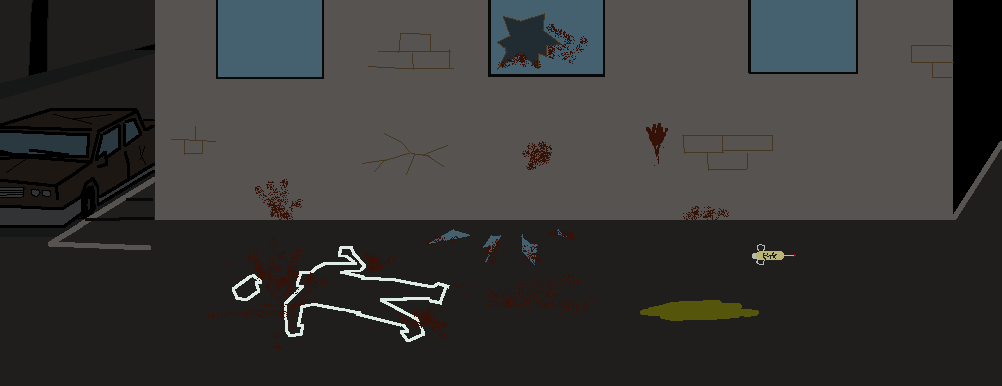
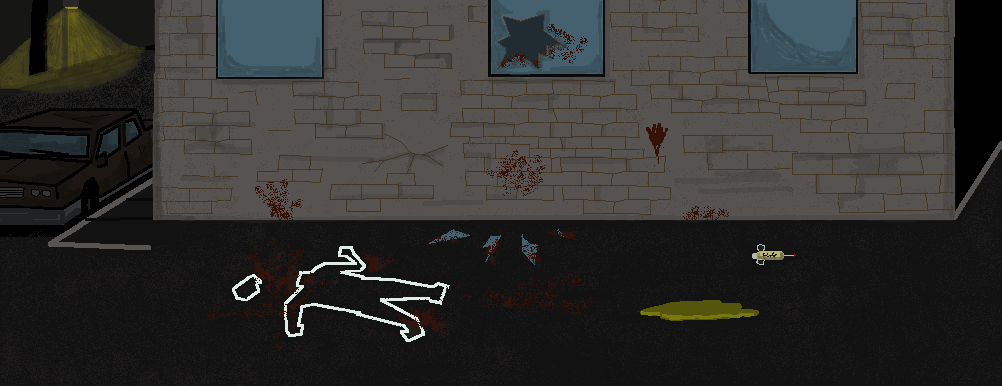
artwork greatly improved, speach boxes created to make text more readable, dried up conversation code ever so slightly

diff --git a/js/crimeScene.js b/js/crimeScene.js
@@ -3,15 +3,13 @@ var suspects = null;
 var witnesses = null;
 
 $(document).ready(function () {
-  $(".sceneOneScreen").toggle();
-  $(".menuArea").toggle();
+  $(".sceneOneScreen, .menuArea").toggle();
   // init the crime scene
   startCrimeScene = function(){
     suspects = false;
     witnesses = false;
     aboutVictim = false;
-    $(".playerPortrait").toggle();
-    $(".npcPortrait").toggle();
+    $(".playerPortrait, .npcPortrait, .playerSpeach, .npcSpeach").toggle();
   };
   startCrimeScene();
   // crime scene music control
@@ -36,23 +34,20 @@ $(document).ready(function () {
   getCloser = function(){
     $(".playerSpeach").html('I need to get closer');
     setTimeout(function() {
-      $(".playerSpeach").html("");
-      $(".playerPortrait").toggle();
+      $(".playerPortrait, .playerSpeach").toggle();
     }, 3000);
   };
   // clear speach after a few seconds
   speakClear = function() {
     var words = $(".playerSpeach").html();
     setTimeout(function() {
-      $(".playerSpeach").html("");
-      $(".playerPortrait").toggle();
+      $(".playerPortrait, .playerSpeach").toggle();
     }, words.length * 75);
   };
   npcSpeakClear = function() {
     var words = $(".npcSpeach").html();
     setTimeout(function() {
-      $(".npcSpeach").html("");
-      $(".npcPortrait").toggle();
+      $(".npcPortrait, .npcSpeach").toggle();
     }, words.length * 75);
   };
 
@@ -61,10 +56,10 @@ $(document).ready(function () {
     var action = $(".playerAction").html();
     var distance = (($(this).position().left) + ($(this).position().top)) - (($("#player").position().left) + ($("#player").position().top));
     if (distance > 35 && action === "Look at" || distance < -280 && action === "Look at") {
-      $(".playerPortrait").toggle();
+      $(".playerPortrait, .playerSpeach").toggle();
       getCloser();
     } else if (distance < 35 && action === "Look at" || distance > -280 && action === "Look at") {
-      $(".playerPortrait").toggle();
+      $(".playerPortrait, .playerSpeach").toggle();
       $(".playerSpeach").html("Looks like the last known whereabouts of our victim... a John Doe");
       speakClear();
     }
@@ -77,10 +72,10 @@ $(document).ready(function () {
     var action = $(".playerAction").html();
     var distance = (($("#shards").position().left) + ($("#shards").position().top)) - (($("#player").position().left) + ($("#player").position().top));
     if (distance > 60 && action === "Look at" || distance < -220 && action === "Look at") {
-      $(".playerPortrait").toggle();
+      $(".playerPortrait, .playerSpeach").toggle();
       getCloser();
     } else if (distance < 60 && action === "Look at" || distance > -220 && action === "Look at") {
-      $(".playerPortrait").toggle();
+      $(".playerPortrait, .playerSpeach").toggle();
       $(".playerSpeach").html("Shards of glass... There's blood everywhere.");
       speakClear();     
     }
@@ -93,15 +88,15 @@ $(document).ready(function () {
     var action = $(".playerAction").html();
     var distance = (($("#head").position().left) + ($("#head").position().top)) - (($("#player").position().left) + ($("#player").position().top));
     if (distance > 35 && action === "Look at" || distance < -260 && action === "Look at") {
-      $(".playerPortrait").toggle();
+      $(".playerPortrait, .playerSpeach").toggle();
       getCloser();
     } else if (distance < 35 && action === "Look at" && aboutVictim == false || distance > -260 && action === "Look at" && aboutVictim == false) {
       $(".playerSpeach").html("There are ways to get ahead in life, and this aint one of 'em, unless you're the murderer...Then this is Exactly how you get a head");
-      $(".playerPortrait").toggle();
+      $(".playerPortrait, .playerSpeach").toggle();
       speakClear(); 
     } else if (distance < 35 && action === "Look at" && aboutVictim == true || distance > -260 && action === "Look at" && aboutVictim == true) {
       $(".playerSpeach").html("Twisted off... who... or what could do this?");
-      $(".playerPortrait").toggle();
+      $(".playerPortrait, .playerSpeach").toggle();
       speakClear(); 
     }
   });
@@ -114,23 +109,23 @@ $(document).ready(function () {
     var distance = (($("#car").position().left) + ($("#car").position().top)) - (($("#player").position().left) + ($("#player").position().top));
     if (action === "Look at") {
       $(".playerSpeach").html("My wheels, she aint much to look at, but it beats walking");
-      $(".playerPortrait").toggle();
+      $(".playerPortrait, .playerSpeach").toggle();
       speakClear(); 
     }
   });
   $("#car").hover(function(){
     $(".helper").html("The Dick-Mobile");
   });
-
+  
   $("#brokenWindow").click(function(e) {
     var action = $(".playerAction").html();
     var distance = (($("#brokenWindow").position().left) + ($("#brokenWindow").position().top)) - (($("#player").position().left) + ($("#player").position().top));
     if (distance > -65 && action === "Look at" || distance < -400 && action === "Look at") {
-      $(".playerPortrait").toggle();
+      $(".playerPortrait, .playerSpeach").toggle();
       getCloser();
     } else if (distance < -65 && action === "Look at" || distance > -400 && action === "Look at") {
       $(".playerSpeach").html("I guess this is where these shards of glass came from. What does this have to do with the murder? Could this be a robbery gone wrong?");
-      $(".playerPortrait").toggle();
+      $(".playerPortrait, .playerSpeach").toggle();
       speakClear(); 
     }
   });
@@ -143,7 +138,7 @@ $(document).ready(function () {
     var distance = (($("#handPrint").position().left) + ($("#handPrint").position().top)) - (($("#player").position().left) + ($("#player").position().top));
     if (action === "Look at") {
       $(".playerSpeach").html("I should run this for prints back at HQ");
-      $(".playerPortrait").toggle();
+      $(".playerPortrait, .playerSpeach").toggle();
       speakClear(); 
     }
   });
@@ -155,11 +150,11 @@ $(document).ready(function () {
     var action = $(".playerAction").html();
     var distance = (($("#urine").position().left) + ($("#urine").position().top)) - (($("#player").position().left) + ($("#player").position().top));
     if (distance > 60 && action === "Look at" || distance < -220 && action === "Look at") {
-      $(".playerPortrait").toggle();
+      $(".playerPortrait, .playerSpeach").toggle();
       getCloser();
     } else if (distance < 60 && action === "Look at" || distance > -220 && action === "Look at") {
       $(".playerSpeach").html("A puddle of urine... I should scoop some up for analysis");
-      $(".playerPortrait").toggle();
+      $(".playerPortrait, .playerSpeach").toggle();
       speakClear();     
     }
   });
@@ -171,15 +166,15 @@ $(document).ready(function () {
     var action = $(".playerAction").html();
     var distance = (($("#syringe").position().left) + ($("#syringe").position().top)) - (($("#player").position().left) + ($("#player").position().top));
     if (distance > 35 && action === "Look at" || distance < -160 && action === "Look at") {
-      $(".playerPortrait").toggle();
+      $(".playerPortrait, .playerSpeach").toggle();
       getCloser();
     } else if (distance < 35 && action === "Look at" && suspects == false || distance > -160 && action === "Look at" && suspects == false) {
       $(".playerSpeach").html("Hmmm, Could this be related? Or maybe some crack head left it here? This place is pretty seedy...");
-      $(".playerPortrait").toggle();
+      $(".playerPortrait, .playerSpeach").toggle();
       speakClear(); 
     } else if (distance < 35 && action === "Look at" && suspects == true || distance > -160 && action === "Look at" && suspects == true) {
       $(".playerSpeach").html("So this belongs to the crack head after all. I don't need it.");
-      $(".playerPortrait").toggle();
+      $(".playerPortrait, .playerSpeach").toggle();
       speakClear(); 
     }
   });
@@ -191,11 +186,11 @@ $(document).ready(function () {
     var action = $(".playerAction").html();
     var distance = (($("#npcRodriguez").position().left) + ($("#npcRodriguez").position().top)) - (($("#player").position().left) + ($("#player").position().top));
     if (distance > 135 && action === "Look at" || distance < -460 && action === "Look at") {
-      $(".playerPortrait").toggle();
+      $(".playerPortrait, .playerSpeach").toggle();
       getCloser();
     } else if (distance < 135 && action === "Look at" || distance > -460 && action === "Look at") {
       $(".playerSpeach").html("Officer Rodriguez. He looks pretty shaken up. Didn't even know he smokes..");
-      $(".playerPortrait").toggle();
+      $(".playerPortrait, .playerSpeach").toggle();
       speakClear(); 
     }
   });

diff --git a/js/rodriguezConvo.js b/js/rodriguezConvo.js
@@ -1,16 +1,15 @@
 $(document).ready(function () {
-
   $(".options").toggle();
 
   $("#npcRodriguez").click(function(e) {
     var action = $(".playerAction").html();
     var distance = (($("#npcRodriguez").position().left) + ($("#npcRodriguez").position().top)) - (($("#player").position().left) + ($("#player").position().top));
     if (distance > 135 && action === "Talk to" || distance < -460 && action === "Talk to") {
-      $(".playerPortrait").toggle();
+      $(".playerPortrait, .playerSpeach").toggle();
       getCloser();
     } else if (distance < 135 && action === "Talk to" || distance > -460 && action === "Talk to") {
       $(".playerSpeach").html("Officer Rodriguez. What's the deal here?");
-      $(".playerPortrait").toggle();
+      $(".playerPortrait, .playerSpeach").toggle();
       speakClear();
       setTimeout(RodriguezTalk, 3000);
     }
@@ -20,7 +19,7 @@ $(document).ready(function () {
   }
 
   RodriguezTalk = function(){
-    $(".npcPortrait").toggle();
+    $(".npcPortrait, .npcSpeach").toggle();
     $(".npcSpeach").html("It's not great, Dick. Somebody got messed up here real good....or bad.. I'm so confused right now..");
     npcSpeakClear();
     setTimeout(toggleOptions, 6000);
@@ -30,18 +29,18 @@ $(document).ready(function () {
     $(this).css("color", "grey");
     aboutVictim = true;
     toggleOptions();
-    $(".npcPortrait").toggle();
+    $(".npcPortrait, .npcSpeach").toggle();
     $(".npcSpeach").html("Male Caucasian of unknown identity, roughly 35-40 years of age, broken knee, decapitated and 5\"11...I think.");
     npcSpeakClear();
     response = function(){
       $(".playerSpeach").html("How was he decapitated?");
-      $(".playerPortrait").toggle();
+      $(".playerPortrait, .playerSpeach").toggle();
       speakClear();
     };
     setTimeout(response, 8000);
     npcResponse = function(){
       setTimeout(function(){
-        $(".npcPortrait").toggle();
+        $(".npcPortrait, .npcSpeach").toggle();
         $(".npcSpeach").html("His head was twisted completely off. it would take someone with incredible strength to do this");
       }, 4000);
       npcSpeakClear();
@@ -54,18 +53,18 @@ $(document).ready(function () {
     $(this).css("color", "grey");
     suspects = true;
     toggleOptions();
-    $(".npcPortrait").toggle();
+    $(".npcPortrait, .npcSpeach").toggle();
     $(".npcSpeach").html("We have a possible suspect or witness down in lock up now. Some Crack head, that's his needle right there.");
     npcSpeakClear();
     response = function(){
       $(".playerSpeach").html("I'll go shake him down after I look around");
-      $(".playerPortrait").toggle();
+      $(".playerPortrait, .playerSpeach").toggle();
       speakClear();
     };
     setTimeout(response, 8000);
     npcResponse = function(){
       setTimeout(function(){
-        $(".npcPortrait").toggle();
+        $(".npcPortrait, .npcSpeach").toggle();
         $(".npcSpeach").html("Good call. Something just feels wrong about all of this, Dick");
       }, 4000);
       npcSpeakClear();
@@ -77,18 +76,18 @@ $(document).ready(function () {
     $(this).css("color", "grey");
     witnesses = true;
     toggleOptions();
-    $(".npcPortrait").toggle();
+    $(".npcPortrait, .npcSpeach").toggle();
     $(".npcSpeach").html("None apart from the crack head we caught. I'm not sure if he even knows his own name though. Think he said it was Mahflnme");
     npcSpeakClear();
     response = function(){
       $(".playerSpeach").html("How can nobody have seen a man get his head removed?");
-      $(".playerPortrait").toggle();
+      $(".playerPortrait, .playerSpeach").toggle();
       speakClear();
     };
     setTimeout(response, 8000);
     npcResponse = function(){
       setTimeout(function(){
-        $(".npcPortrait").toggle();
+        $(".npcPortrait, .npcSpeach").toggle();
         $(".npcSpeach").html("Beats me, Dick. You'll need your head screwed on for this case. Sorry... I should head off.. heh heh... sigh.");
       }, 3500);
       npcSpeakClear();
@@ -98,14 +97,9 @@ $(document).ready(function () {
   });
   $(".bye").click(function(){
     $(this).css("color", "grey");
-    $(".npcPortrait").toggle();
+    $(".npcPortrait, .npcSpeach").toggle();
     $(".npcSpeach").html("See ya bud");
     npcSpeakClear();
     toggleOptions();
   });
-
-
-
-     
-
 });

diff --git a/css/gameAndMenu.css b/css/gameAndMenu.css
@@ -28,7 +28,7 @@ section.menuArea {
 .playerSpeak {
   margin-top: 2rem;
   margin-left: 2rem;
-  font-size: 1rem;
+  font-size: 0.8rem;
   color: white;
   position: absolute;
   z-index: 2;
@@ -37,14 +37,11 @@ section.menuArea {
 .npcSpeak {
   margin-top: 16rem;
   margin-left: 25rem;
-  font-size: 1rem;
-  color: yellow;
+  font-size: 0.8rem;
+  color: white;
   position: absolute;
   z-index: 2;
-  max-width: 40%;
-}
-.npcSpeach {
-  max-width: 80%;
+  width: 37rem;
 }
 .options {
   position: absolute;
@@ -53,7 +50,7 @@ section.menuArea {
 }
 .talkChoices {
   list-style: none;
-  font-size: 1rem;
+  font-size: 0.8rem;
   font-family: 'Press Start 2P', cursive;
   color: white;
   text-align: left;

diff --git a/css/animation.css b/css/animation.css
@@ -32,6 +32,14 @@ img.dickFace {
     transform: translateX(-73rem);
   }
 }
+section.playerSpeach {
+  background-color: black;
+  border: 0.4rem solid grey;
+  border-radius: 0.5rem;
+  padding: 0.6rem;
+  margin: 0.5rem;
+  width: 70%;
+}
 
 div#npcRodriguez {
   top: -18rem;
@@ -71,7 +79,13 @@ img.rodFace {
   animation: portrait 550ms steps(6) infinite;
 }
 section.npcSpeach {
-  margin-top: 3rem;
+  margin-top: 3rem 0.5rem 0.5rem 0.5rem;
+  background-color: black;
+  border: 0.4rem solid grey;
+  border-radius: 0.5rem;
+  padding: 0.6rem;
+  float: right;
+  width: 70%;
 }
 
 
